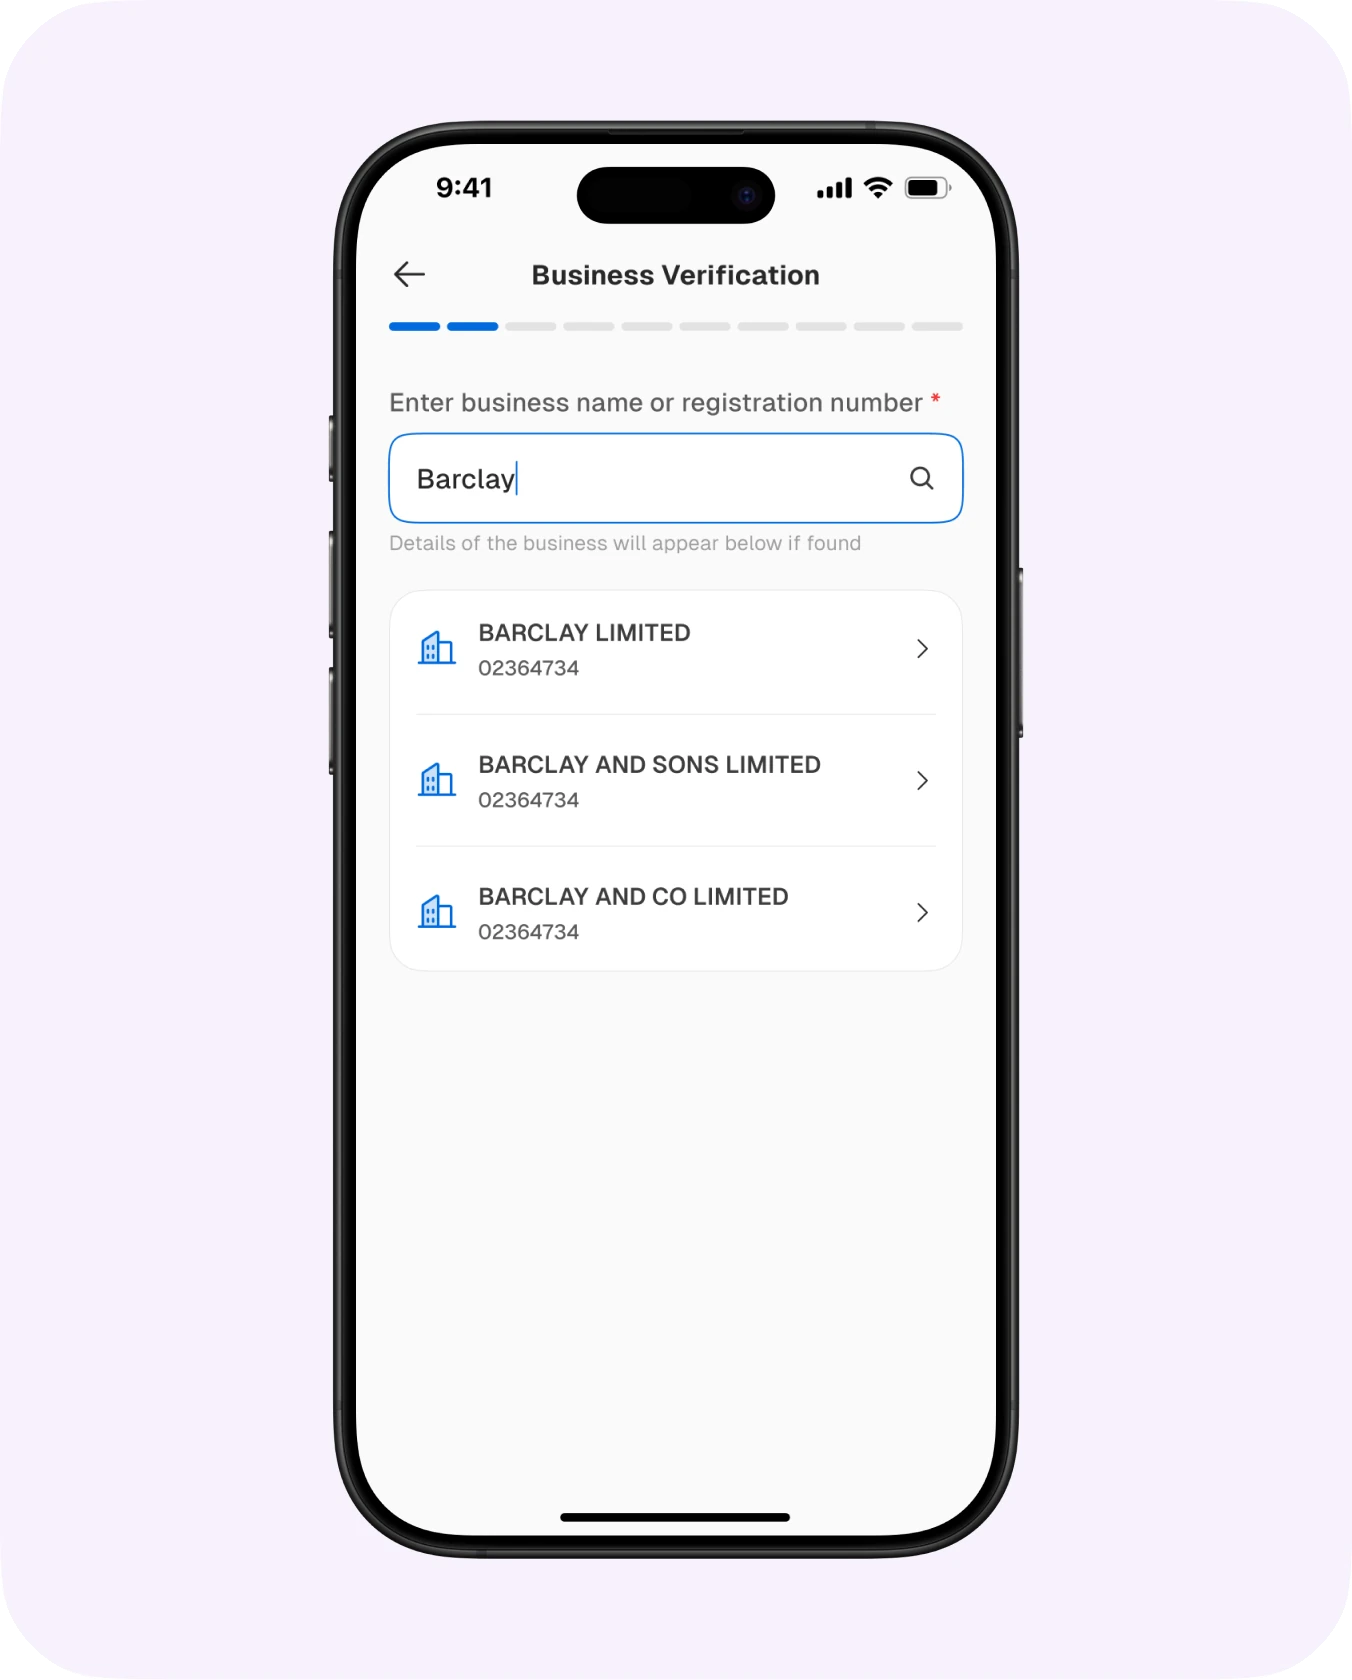
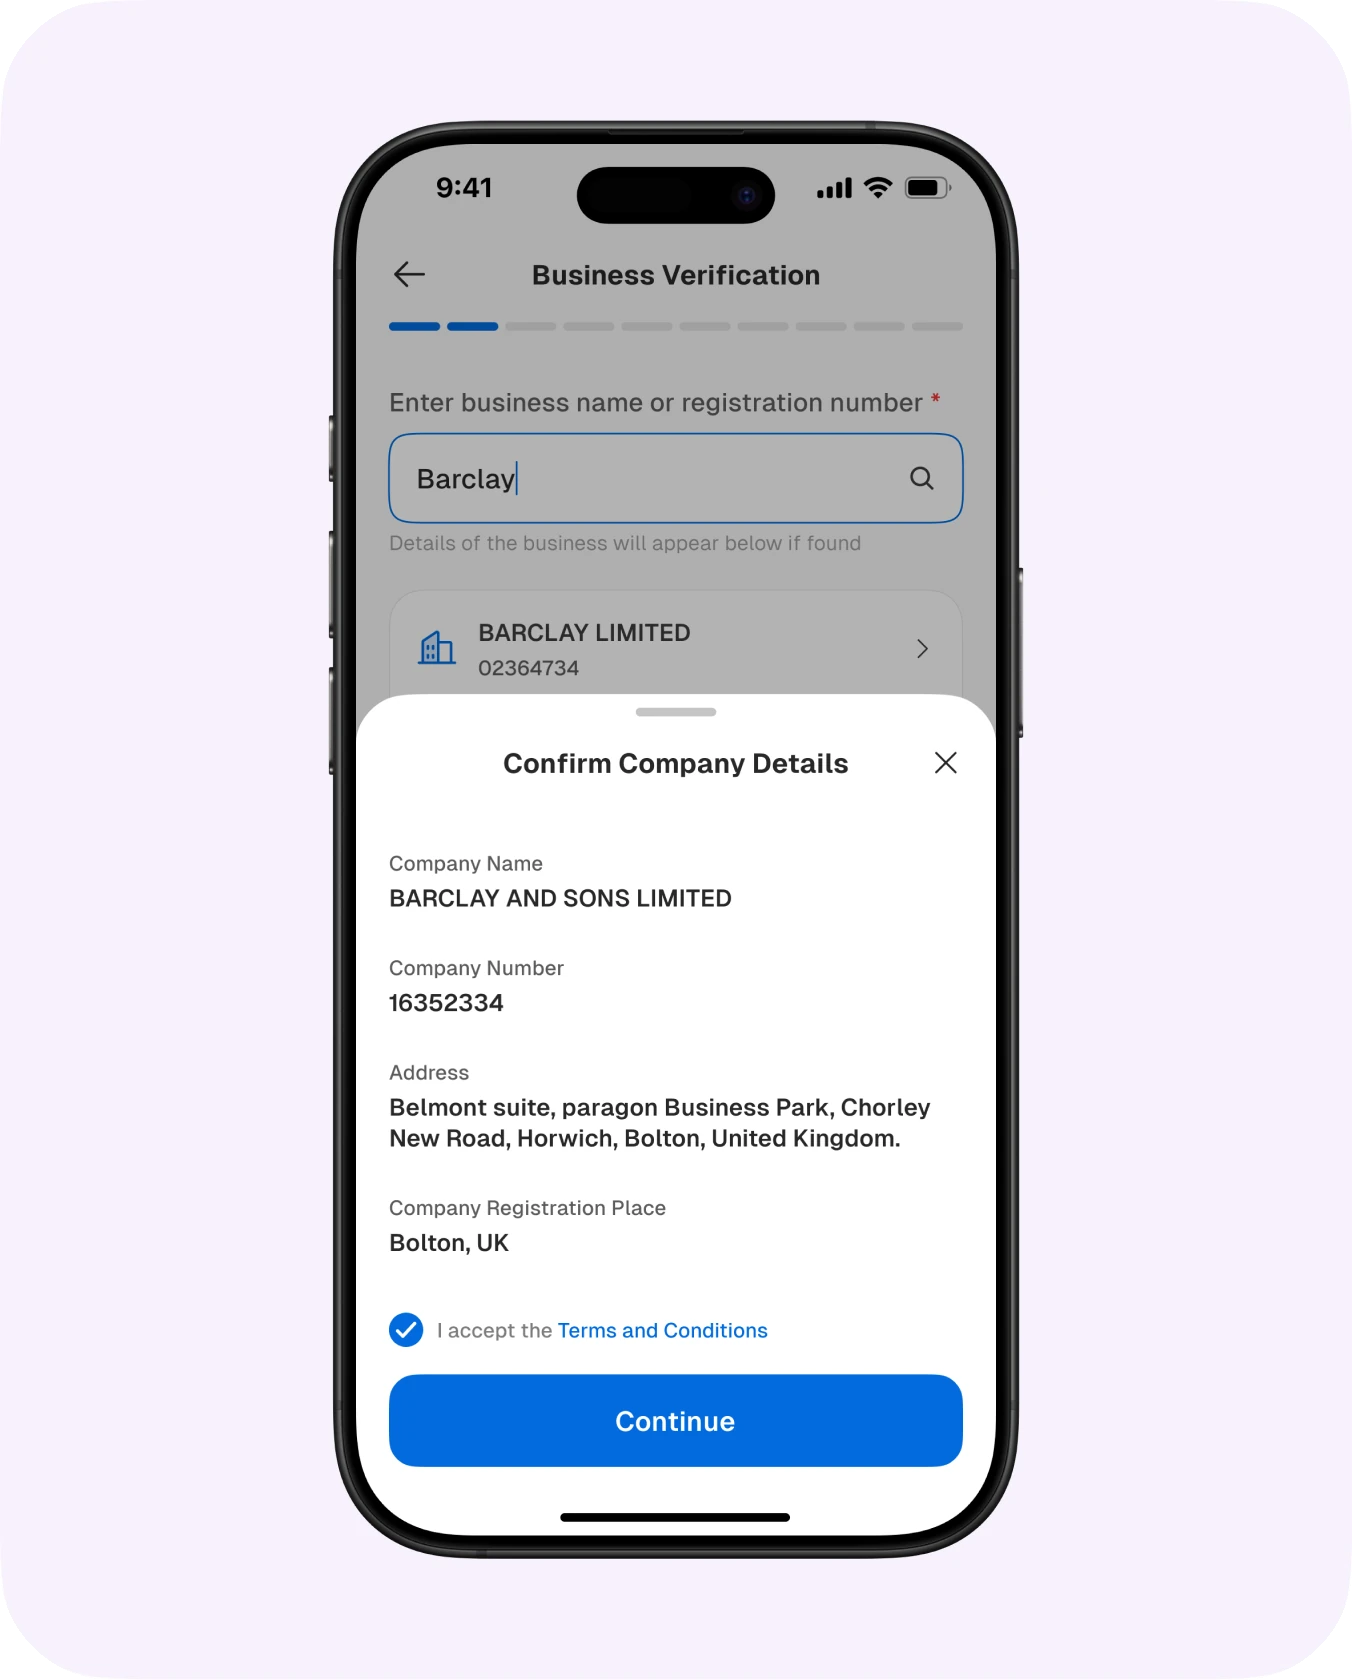
Update HelloMe Money business verification screen from Figma (138:49485)
Claude-Session: https://claude.ai/code/session_011NGttG5u8Fru5w27MmCksQ

Changed region(s): [[0.2485, 0.0619, 0.7456, 0.681], [0.2796, 0.7738, 0.7145, 0.8976], [0.2796, 0.7119, 0.497, 0.7429]]

diff --git a/src/content/case-studies/hellome-money.ts b/src/content/case-studies/hellome-money.ts
@@ -63,7 +63,7 @@ export const hellomeMoney: CaseStudy = {
         "Documents are uploaded with clear requirements for each file.",
       ],
     },
-    pair("138:49479", 840, "Business verification search"),
+    pair("138:49479", 840, "Business verification search and confirming company details"),
     img("138:49455", 1376, 753, "Business account, shareholders, activities and documents"),
     {
       type: "split",
